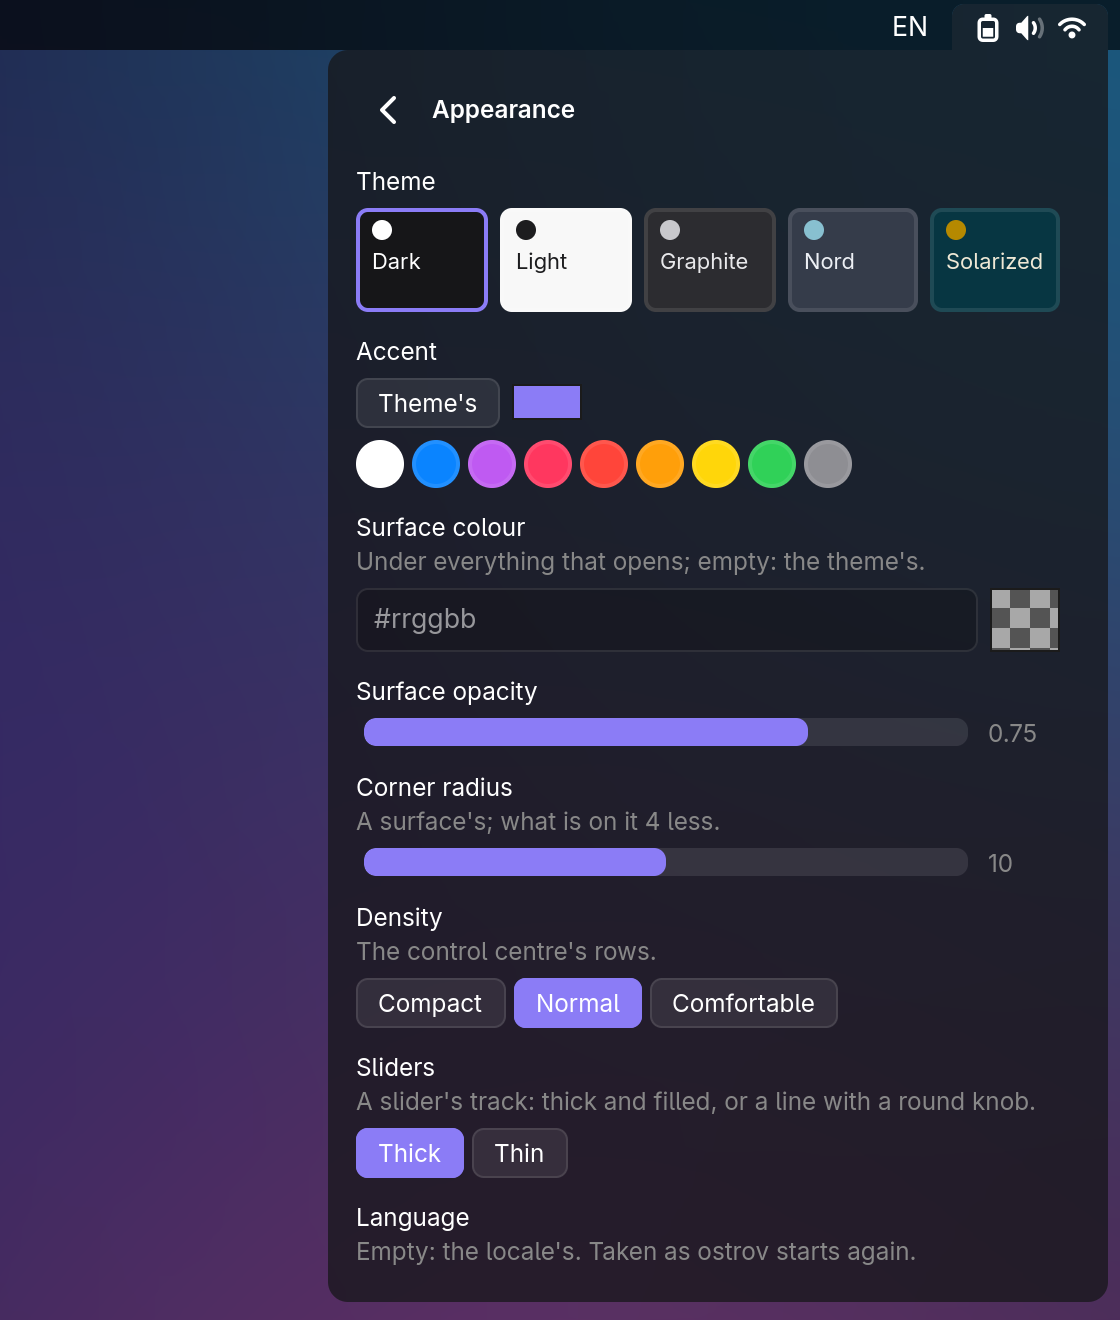
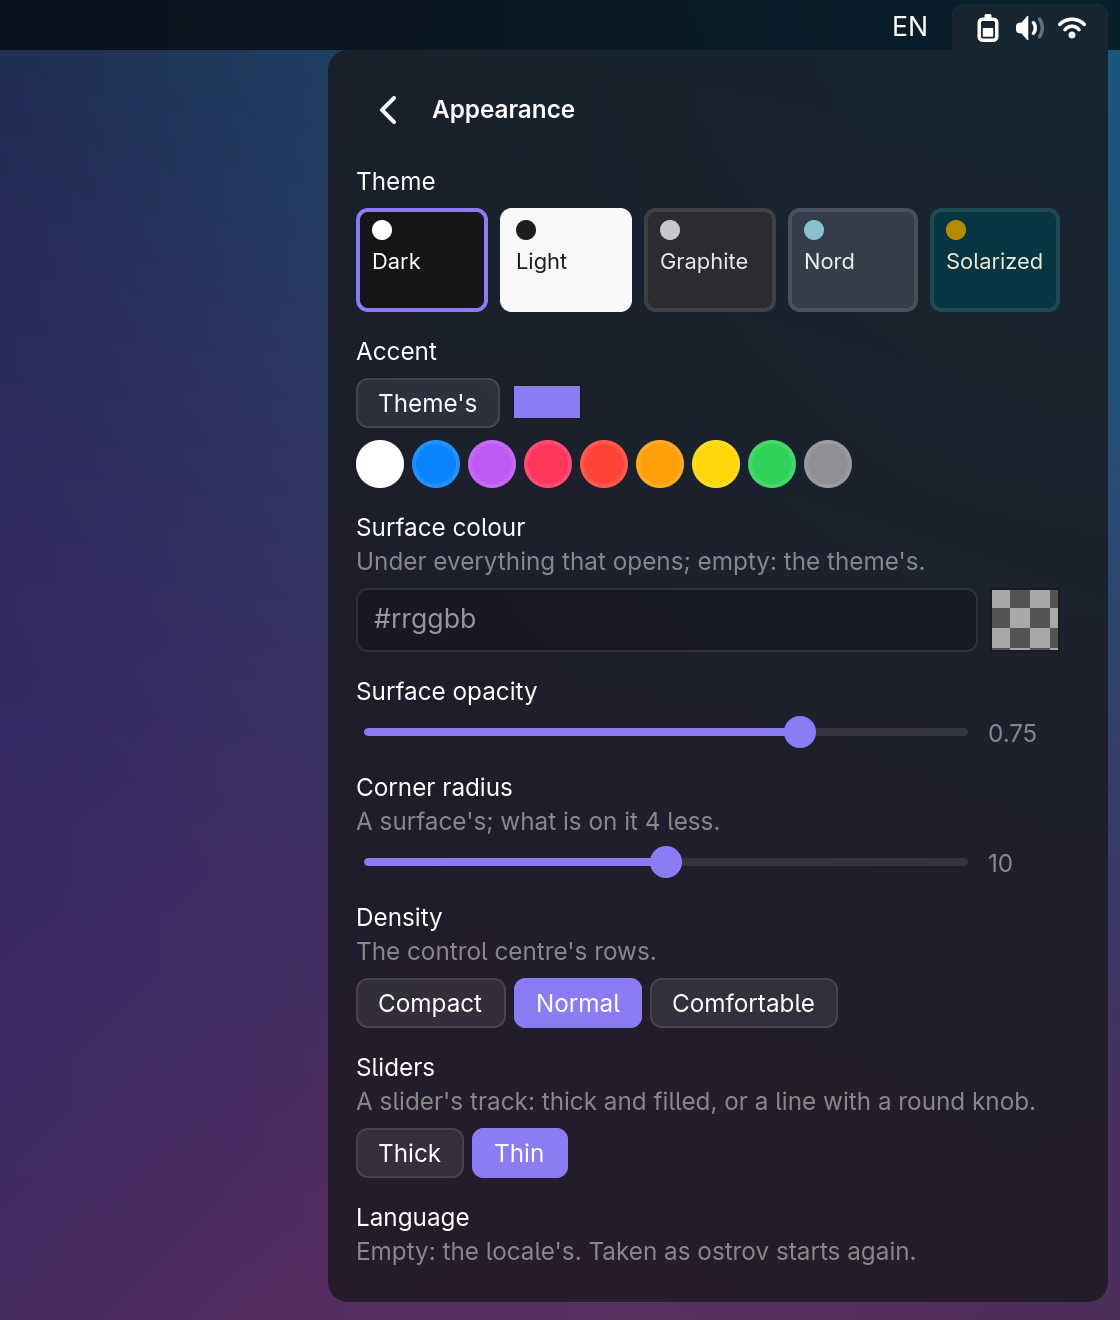
fix(panels): a widget showing nothing (the headset with none on) gives up its rows; thin sliders in the screenshots

Changed region(s): [[0.3125, 0.528, 0.75, 0.5902], [0.3125, 0.6212, 0.625, 0.6833], [0.3125, 0.8386, 0.5312, 0.9008]]

diff --git a/src/cc/mod.rs b/src/cc/mod.rs
@@ -451,7 +451,7 @@ pub struct Panel {
     aligns: RefCell<HashMap<String, String>>,
     /// the widgets on it only while active, and those of them shown as last laid out
     lively: RefCell<std::collections::HashSet<String>>,
-    lively_shown: RefCell<Vec<String>>,
+    shown_keys: RefCell<Vec<String>>,
     /// the grid's page, the Settings', the Appearance's
     pages: gtk4::Stack,
     settings: Option<Rc<crate::settings::form::Page>>,
@@ -682,17 +682,23 @@ impl Panel {
 
     /// The grid laid out anew from the items: each tile at its cells, and under each band of rows whose widgets
     /// have menus a row of their own for those menus, shown only while one of them is unfolded.
-    /// The tiles on the grid now: all of them while it is edited; else those not on it only while active, and
-    /// those whose widgets are, the others closing up their places.
+    /// The tiles on the grid now: all of them while it is edited; else those showing something (the headset's
+    /// with one on) and, of those on it only while active, the active ones, the others closing up their places.
     fn shown(&self) -> Vec<Item> {
-        let lively = self.lively.borrow();
-        if self.editing.get() || lively.is_empty() {
+        if self.editing.get() {
             return self.items.borrow().clone();
         }
+        let lively = self.lively.borrow();
         let tiles = self.tiles.borrow();
         let active = |k: &str| tiles.get(k).and_then(|t| t.widget.face.as_ref()).is_none_or(|f| f.active.get());
-        let mut items: Vec<Item> =
-            self.items.borrow().iter().filter(|i| !lively.contains(&i.key) || active(&i.key)).cloned().collect();
+        let showing = |k: &str| tiles.get(k).is_none_or(|t| t.widget.root.is_visible());
+        let mut items: Vec<Item> = self
+            .items
+            .borrow()
+            .iter()
+            .filter(|i| showing(&i.key) && (!lively.contains(&i.key) || active(&i.key)))
+            .cloned()
+            .collect();
         grid::compact(&mut items, self.cols.get());
         items
     }
@@ -702,8 +708,7 @@ impl Panel {
             self.grid.remove(&c);
         }
         let items = self.shown();
-        *self.lively_shown.borrow_mut() =
-            items.iter().filter(|i| self.lively.borrow().contains(&i.key)).map(|i| i.key.clone()).collect();
+        *self.shown_keys.borrow_mut() = items.iter().map(|i| i.key.clone()).collect();
         let tiles = self.tiles.borrow();
         let (row, gap) = self.dims.get();
         let mut bands: Vec<(u8, gtk4::Box)> = Vec::new();
@@ -819,9 +824,10 @@ impl Panel {
 
     /// Each badge shown or not, as when it shows says and its widget's activity; the icon while none is.
     fn fit_faces(&self) {
-        // a tile on the panel only while active come or gone: the grid laid out again
-        let lively: Vec<String> = self.shown().into_iter().filter(|i| self.lively.borrow().contains(&i.key)).map(|i| i.key).collect();
-        if lively != *self.lively_shown.borrow() {
+        // a tile come or gone (on the panel only while active, or its widget showing something or nothing): the
+        // grid laid out again
+        let now: Vec<String> = self.shown().into_iter().map(|i| i.key).collect();
+        if now != *self.shown_keys.borrow() {
             self.layout();
         }
         let mut any = false;
@@ -1464,7 +1470,7 @@ pub fn build(host: &Rc<crate::popup::Host>, hub: &Rc<Hub>, tab: &impl IsA<gtk4::
         shows: RefCell::new(shows),
         aligns: RefCell::new(aligns_of(&spec_id)),
         lively: RefCell::new(while_active_of(&spec_id)),
-        lively_shown: RefCell::default(),
+        shown_keys: RefCell::default(),
         pages,
         settings,
         dims: Cell::new(dims),
